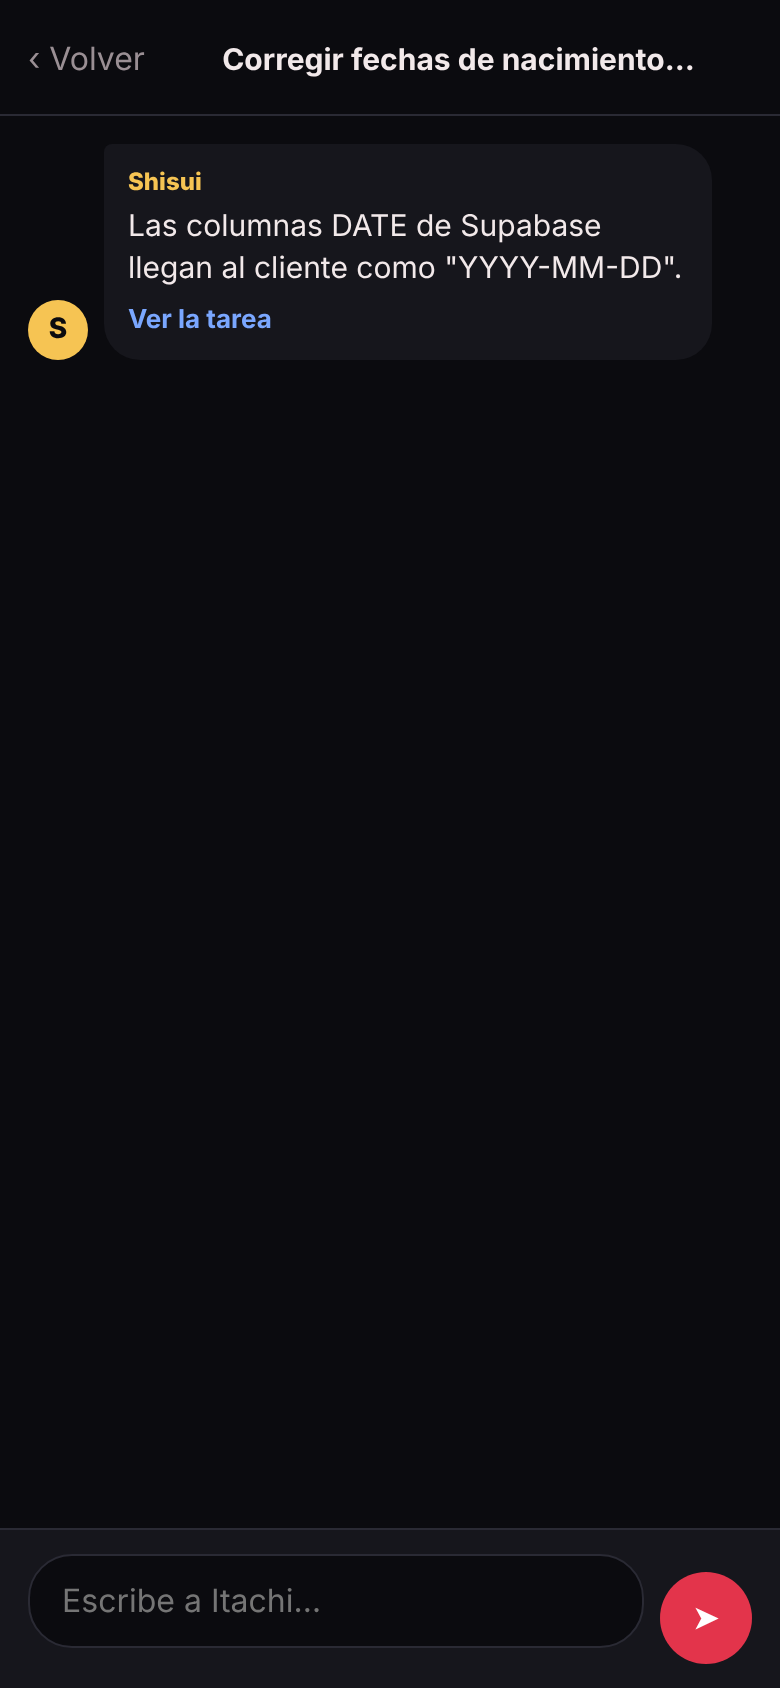
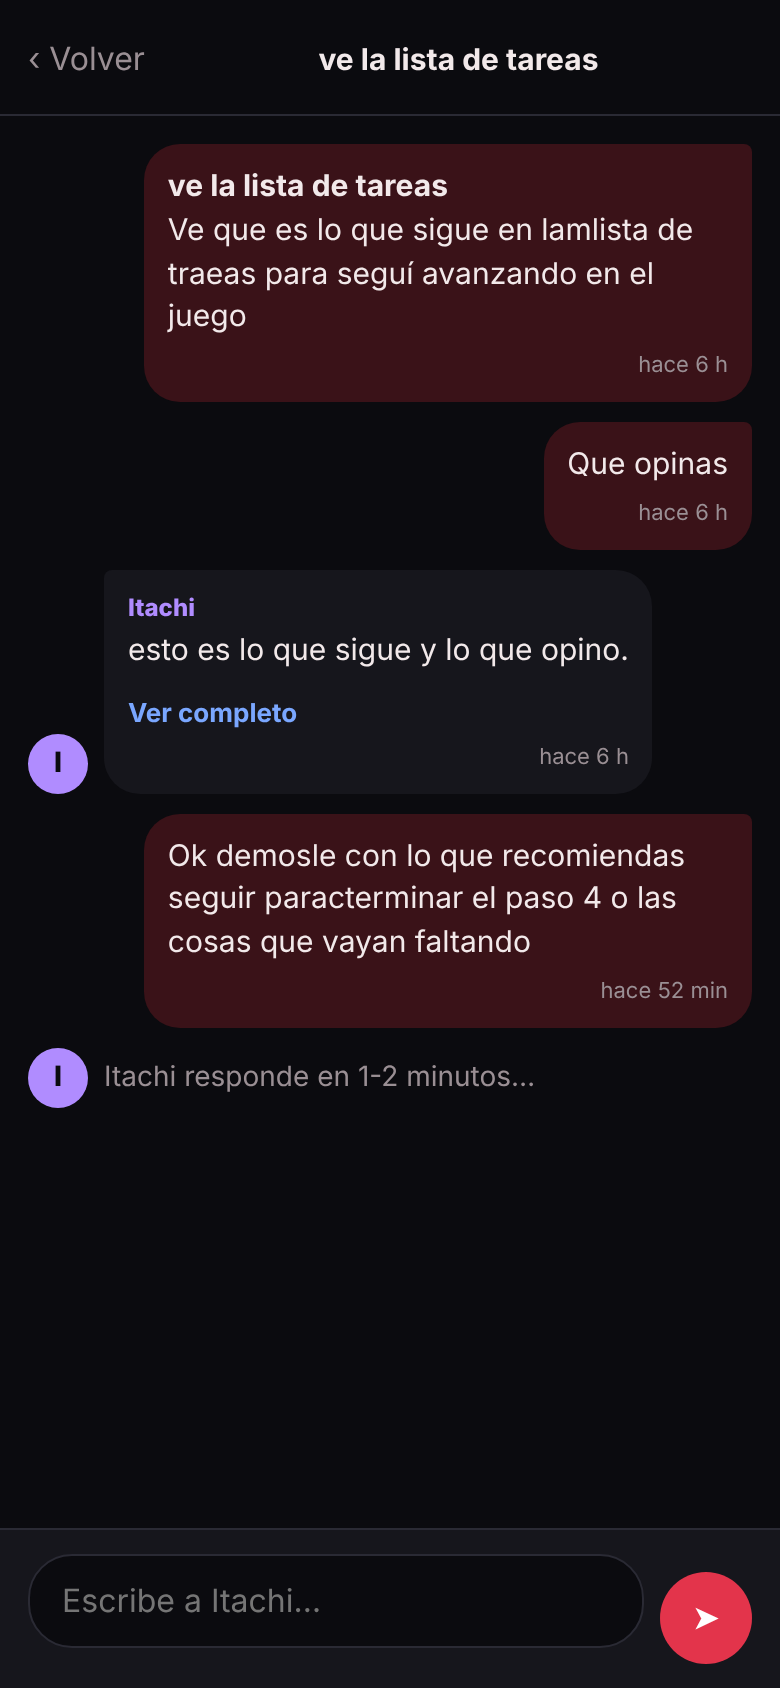
Mostrar la hora real de respuesta de Itachi hasta activar la respuesta instantánea
Claude-Session: https://claude.ai/code/session_01RhVe33VXjDtec5jfWbScXS

diff --git a/app.js b/app.js
@@ -6,7 +6,7 @@ const TURNOS_BASE = {explorador: ['04:43'], consejero: ['10:22', '15:22', '20:22
 let REG = null, REPOS = [], PENDIENTES = [];
 function applyRegistry(reg) {
   REG = reg;
-  const map = p => ({name: p.repo, short: p.nombre.toUpperCase(), nombre: p.nombre, color: p.color, revisor: p.revisor || 'Opus', despliega: !!p.despliega, session: p.session, turnos: p.turnos || TURNOS_BASE, despierto: p.turnos_encendidos !== false, ronda: p.ronda_min});
+  const map = p => ({name: p.repo, short: p.nombre.toUpperCase(), nombre: p.nombre, color: p.color, revisor: p.revisor || 'Opus', despliega: !!p.despliega, session: p.session, turnos: p.turnos || TURNOS_BASE, despierto: p.turnos_encendidos !== false, ronda: p.ronda_min, instantaneo: !!p.instantaneo});
   REPOS = reg.proyectos.filter(p => p.estado !== 'pendiente').map(map);
   PENDIENTES = reg.proyectos.filter(p => p.estado === 'pendiente').map(map);
 }
@@ -380,7 +380,7 @@ async function openChat(repo, n, kind) {
     const espera = cs.length && !rolDe(cs[cs.length - 1]) || (isIdea && !cs.length);
     view({title: esc(corta(ti.t, 34)), back: () => openTask(repo, n, kind), body: `
       ${fase ? `<div class="card">${pasos(fase.f)}</div>` : ''}
-      <div class="chat">${inicio}${cs.map(burbuja).join('')}${espera ? `<div class="escribiendo">${av('consejero')}<span>Itachi responde en 1-2 minutos…</span></div>` : ''}</div>`,
+      <div class="chat">${inicio}${cs.map(burbuja).join('')}${espera ? `<div class="escribiendo">${av('consejero')}<span>${R.instantaneo ? 'Itachi responde en 1-2 minutos…' : `Itachi responde a las ${proximaRonda(R)}…`}</span></div>` : ''}</div>`,
       foot: `<form class="chat-in" data-reply="${repo}/${n}/${kind || ''}"><textarea id="reply" rows="1" required placeholder="Escribe a ${pr ? 'el equipo' : 'Itachi'}…"></textarea><button class="b p send" type="submit" aria-label="Enviar">➤</button></form>`});
     const vb = $('sheet-body').querySelector('.v-body'); vb.scrollTop = vb.scrollHeight;
   } catch (e) { view({body: `<div class="vacio">${esc(e.message)}</div>`}); }
@@ -452,7 +452,7 @@ async function setActive(repo) {
   }
   Scene.projectChanged();
 }
-async function newIssue(repo, title, body, labels) { if (needToken()) return false; return act(() => gh(`${repo}/issues`, {method: 'POST', body: {title, body, labels}}), 'Enviado. Itachi te responde en 1-2 minutos.', 'Enviando…'); }
+async function newIssue(repo, title, body, labels) { if (needToken()) return false; return act(() => gh(`${repo}/issues`, {method: 'POST', body: {title, body, labels}}), (REPOS.find(r => r.name === repo) || {}).instantaneo ? 'Enviado. Itachi te responde en 1-2 minutos.' : `Enviado. Itachi responde a las ${proximaRonda(REPOS.find(r => r.name === repo))}.`, 'Enviando…'); }
 
 document.addEventListener('click', async e => {
   if (e.target.closest('[data-back]')) { if (backFn) return backFn(); return $('sheet').close(); }

diff --git a/index.html b/index.html
@@ -39,7 +39,7 @@
       <textarea id="i-body" required rows="3" placeholder="Ej: un modo foto para el juego, porque…"></textarea>
       <div class="row2"><select id="i-repo" aria-label="Proyecto"></select><button class="b p" type="submit">Enviar</button></div>
       <input id="i-title" type="hidden">
-      <p class="dim small">Te responde en 1-2 minutos: si es buena, qué le cuestiona y qué matices ve.</p>
+      <p class="dim small">Te responde con su opinión corta: si es buena, qué le cuestiona y qué matices ve.</p>
     </form>
     <h2>Conversaciones</h2>
     <div id="ideas"></div>
@@ -57,7 +57,7 @@
       <div class="li"><span class="n">2</span><span><b>Tú</b> apruebas, rechazas o preguntas en el chat de la tarea.</span></div>
       <div class="li"><span class="n">3</span><span><b>Itachi</b> escribe el plan · <b>Sasuke</b> lo programa · <b>Madara</b> lo revisa.</span></div>
       <div class="li"><span class="n">4</span><span><b>Tú</b> fusionas y lo pruebas.</span></div></div>
-    <div class="card"><div class="s">Las ideas las responde Itachi en 1-2 minutos. El resto avanza solo cada hora, una tarea por puesto, en orden. Nadie fusiona ni publica sin ti.</div></div>
+    <div class="card"><div class="s">Itachi responde tus ideas y mensajes en la siguiente ronda (o en 1-2 minutos cuando actives la respuesta instantánea). El resto avanza solo cada hora, una tarea por puesto, en orden. Nadie fusiona ni publica sin ti.</div></div>
     <details class="acc"><summary><span>📄 Explicación completa</span><span class="chev">›</span></summary><div class="acc-in md">
       <p>GitHub es la oficina real: cada propuesta, plan, cambio y revisión queda escrito. Cada proyecto tiene una sede (una sesión de Claude) que despierta cada hora, revisa la cadena y lanza al puesto que toca, con su modelo: Opus para pensar (Itachi, Madara en TherapyHub, Fugaku) y Sonnet para ejecutar (Shisui, Sasuke).</p>
       <p>Los agentes no hablan entre ellos: solo leen lo que quedó escrito. Nunca fusionan, no tocan pagos, autenticación ni secretos sin tu permiso, y lo que leen en GitHub es dato, no orden.</p>

diff --git a/sw.js b/sw.js
@@ -1,4 +1,4 @@
-const C='fabrica-v12',SHELL=['./','style.css','scene.js','app.js','proyectos.json','manifest.webmanifest','icon.svg','icon-192.png','icon-512.png'];
+const C='fabrica-v13',SHELL=['./','style.css','scene.js','app.js','proyectos.json','manifest.webmanifest','icon.svg','icon-192.png','icon-512.png'];
 self.addEventListener('install',e=>{e.waitUntil(caches.open(C).then(c=>c.addAll(SHELL)));self.skipWaiting()});
 self.addEventListener('activate',e=>{e.waitUntil(caches.keys().then(k=>Promise.all(k.filter(x=>x!==C).map(x=>caches.delete(x)))));self.clients.claim()});
 self.addEventListener('fetch',e=>{const u=new URL(e.request.url);if(e.request.method!=='GET'||u.origin!==location.origin)return;
